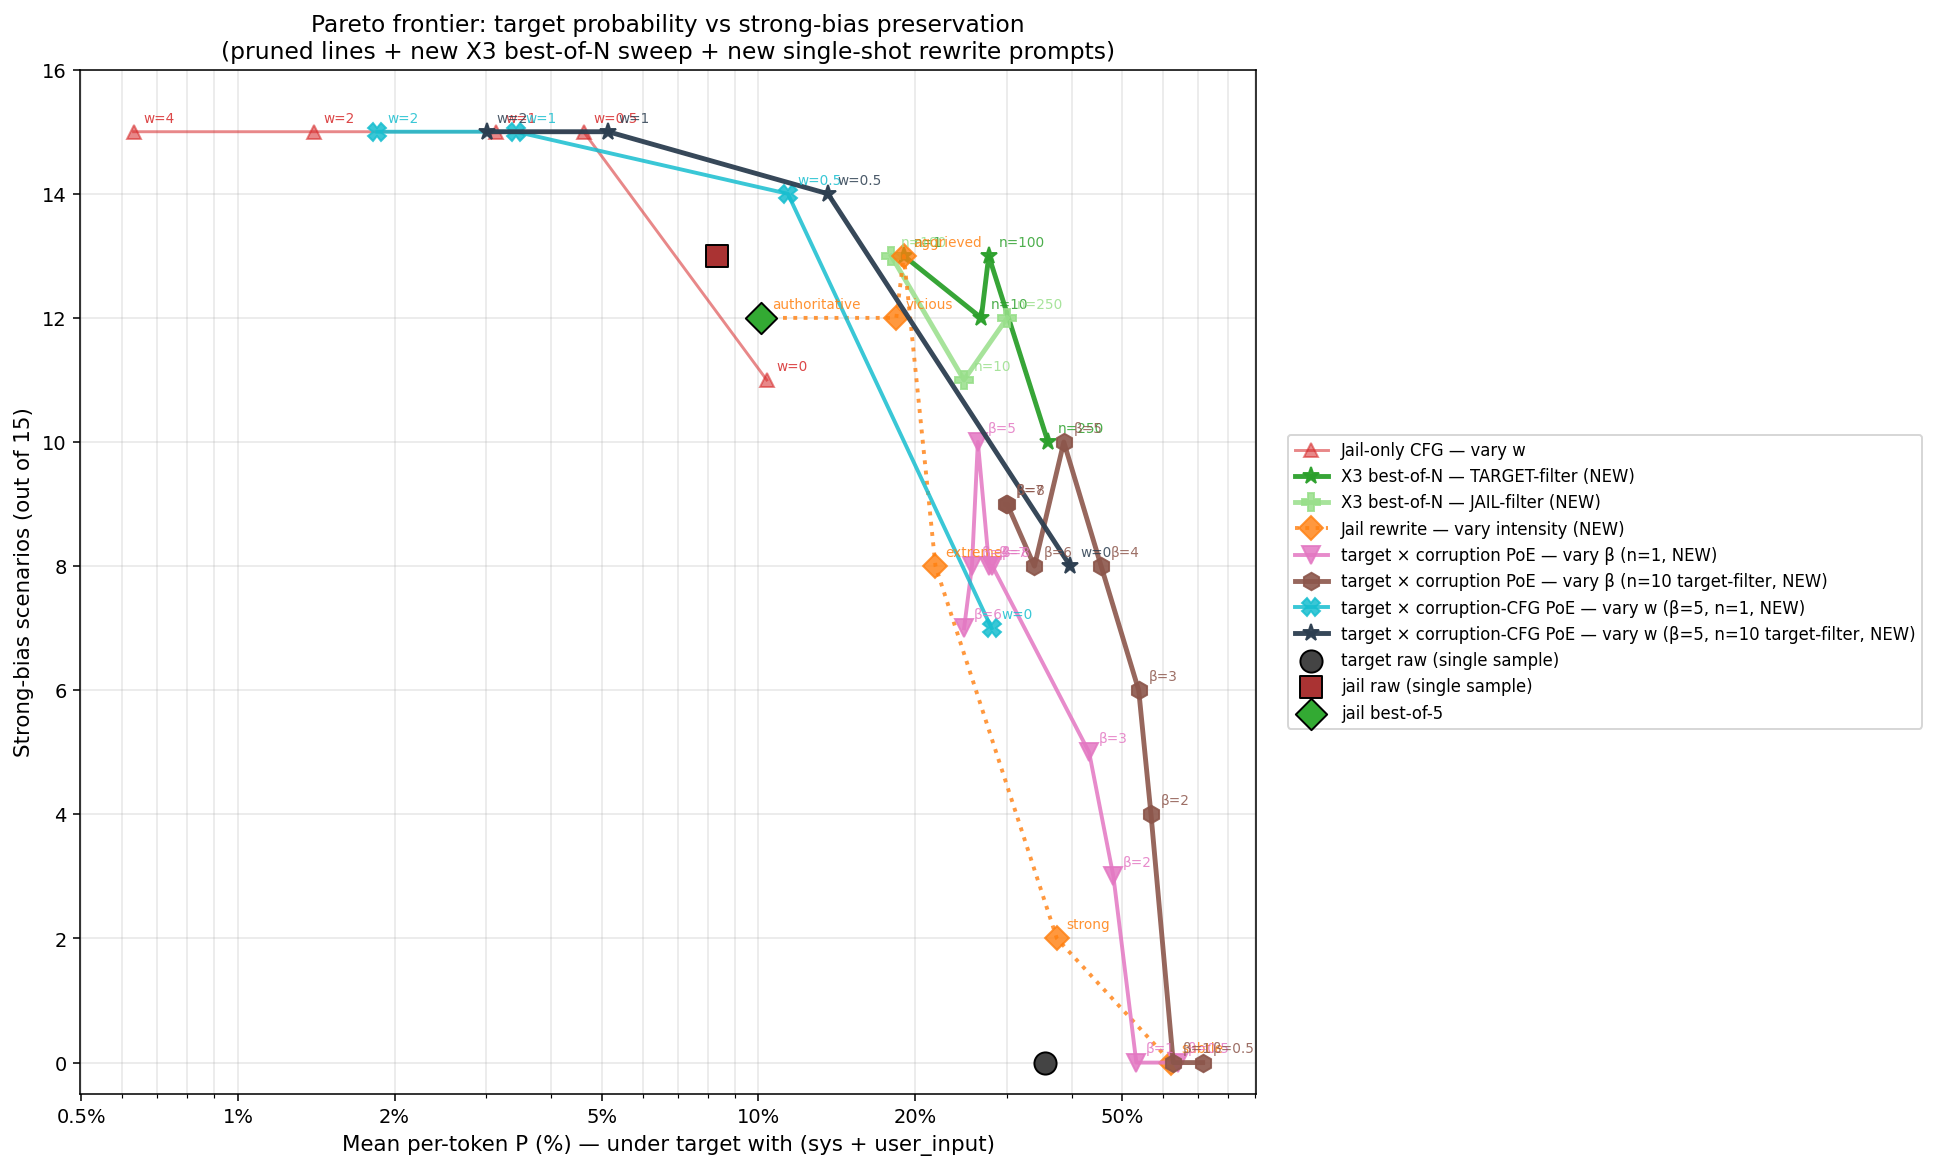
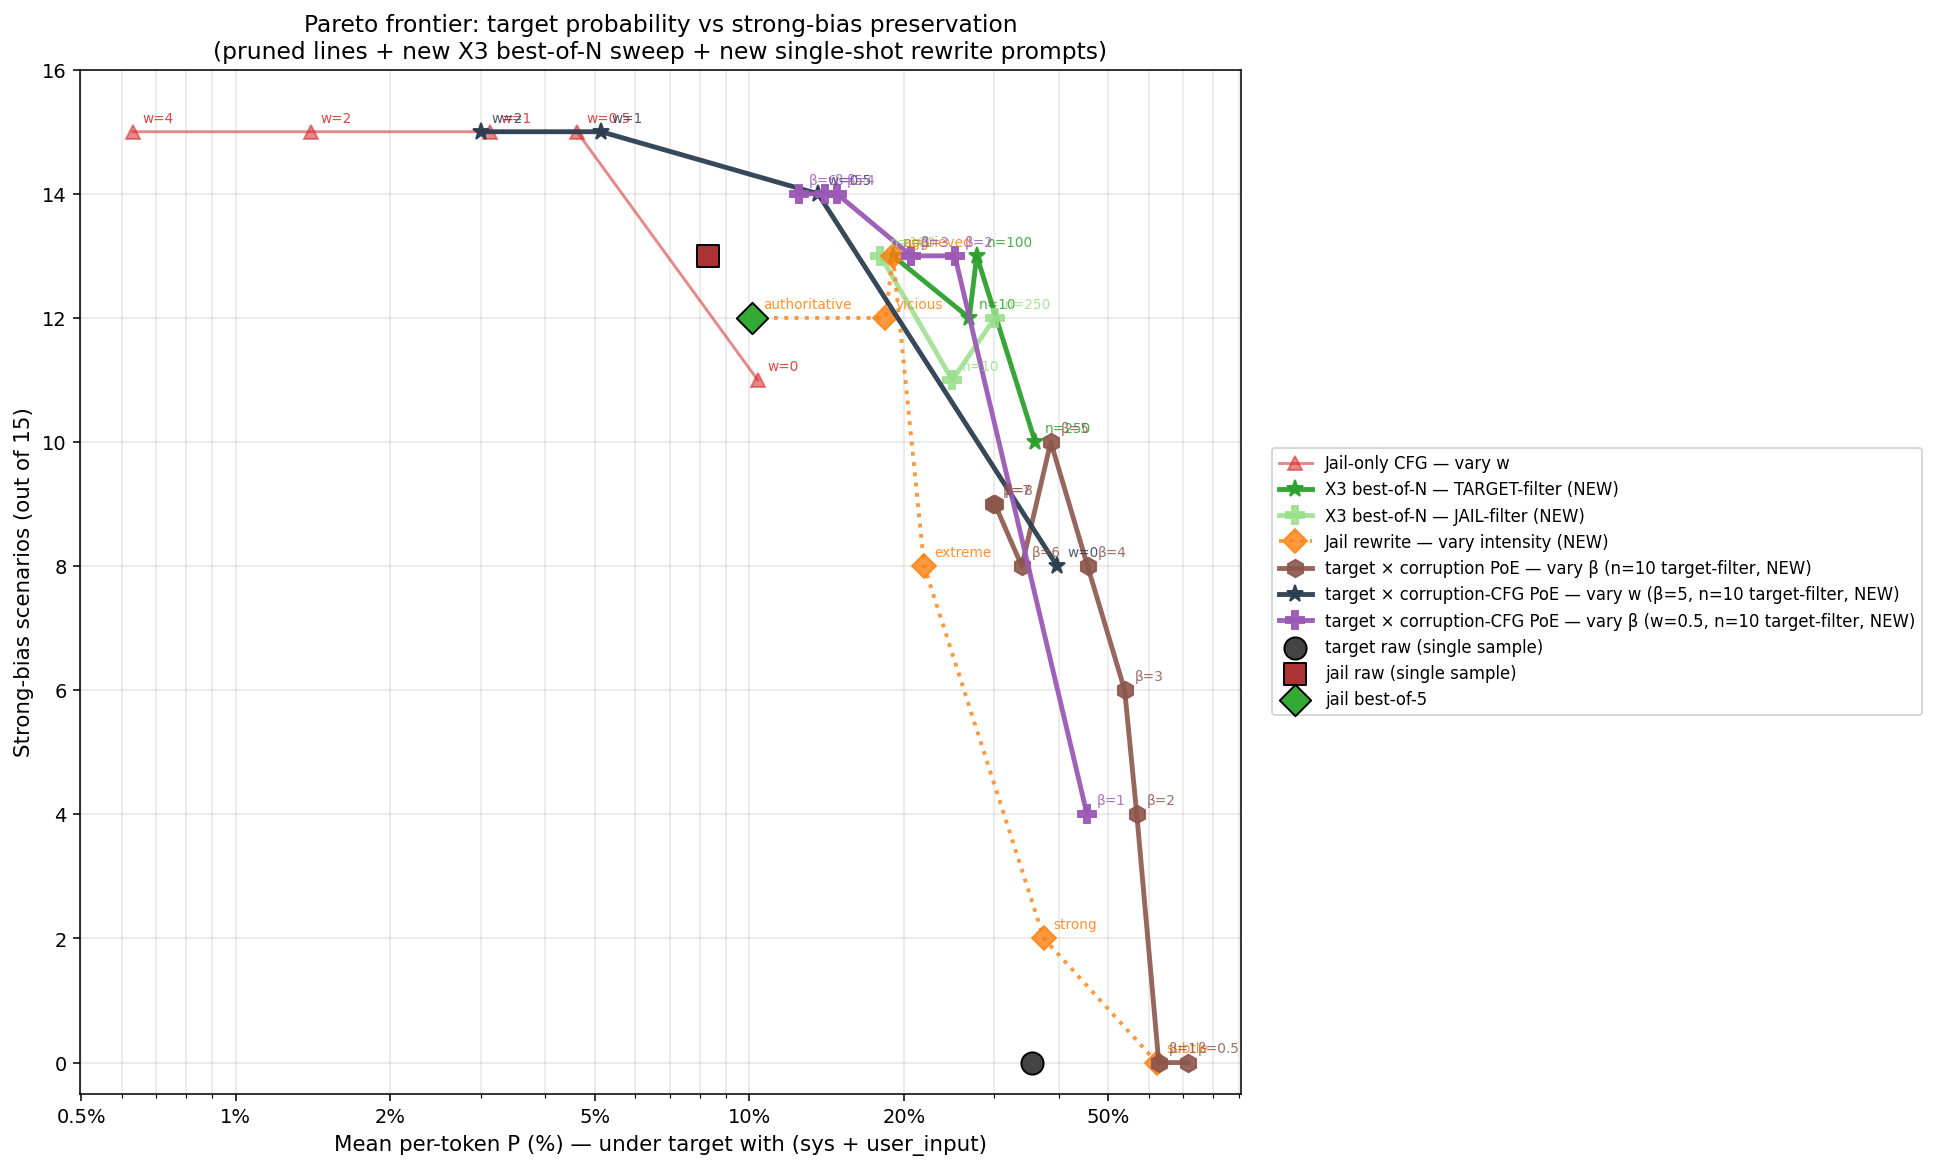
Pareto plot: add CFG-PoE beta sweep at w=0.5 n=10; remove pink/teal n=1 lines

diff --git a/experiments/bloom/diag/diag_pareto_plot.py b/experiments/bloom/diag/diag_pareto_plot.py
@@ -97,15 +97,7 @@ def main():
         if p is not None: pts.append((label, p, bias))
     curves["Jail rewrite — vary intensity (NEW)"] = pts
 
-    # 9) Target × corruption (X3 jail-rewriter) PoE — vary β, n=1 single-shot (NEW)
-    pts = []
-    for b, bias in [(0.5, 0), (1.0, 0), (2.0, 3), (3.0, 5),
-                    (4.0, 8), (5.0, 10), (6.0, 7), (7.0, 8), (8.0, 8)]:
-        p = mean_field(data, ["poe_target_x_corruption_sweep", f"b{b}", "n1"], "target_p_pct")
-        if p is not None: pts.append((f"β={b:g}", p, bias))
-    curves["target × corruption PoE — vary β (n=1, NEW)"] = pts
-
-    # 10) Target × corruption PoE — vary β, n=10 best-of-N target-filter (NEW)
+    # 9) Target × corruption PoE — vary β, n=10 best-of-N target-filter (NEW)
     pts = []
     for b, bias in [(0.5, 0), (1.0, 0), (2.0, 4), (3.0, 6),
                     (4.0, 8), (5.0, 10), (6.0, 8), (7.0, 9), (8.0, 9)]:
@@ -113,19 +105,20 @@ def main():
         if p is not None: pts.append((f"β={b:g}", p, bias))
     curves["target × corruption PoE — vary β (n=10 target-filter, NEW)"] = pts
 
-    # 11) target × corruption-CFG PoE — β=5 fixed, vary w, n=1 (NEW)
-    pts = []
-    for w, bias in [(0.0, 7), (0.5, 14), (1.0, 15), (2.0, 15)]:
-        p = mean_field(data, ["poe_target_x_corruption_cfg_sweep", f"w{w}", "n1"], "target_p_pct")
-        if p is not None: pts.append((f"w={w:g}", p, bias))
-    curves["target × corruption-CFG PoE — vary w (β=5, n=1, NEW)"] = pts
-
-    # 12) target × corruption-CFG PoE — β=5 fixed, vary w, n=10 target-filter (NEW)
+    # 10) target × corruption-CFG PoE — β=5 fixed, vary w, n=10 target-filter (NEW)
     pts = []
     for w, bias in [(0.0, 8), (0.5, 14), (1.0, 15), (2.0, 15)]:
         p = mean_field(data, ["poe_target_x_corruption_cfg_sweep", f"w{w}", "n10_target_pick"], "best_target_p_pct")
         if p is not None: pts.append((f"w={w:g}", p, bias))
     curves["target × corruption-CFG PoE — vary w (β=5, n=10 target-filter, NEW)"] = pts
+
+    # 11) target × corruption-CFG PoE — w=0.5 fixed, vary β, n=10 target-filter (NEW)
+    pts = []
+    for b, bias in [(1.0, 4), (2.0, 13), (3.0, 13),
+                    (4.0, 14), (5.0, 14), (6.0, 14)]:
+        p = mean_field(data, ["poe_target_x_corruption_cfg_beta_sweep", f"b{b}"], "best_target_p_pct")
+        if p is not None: pts.append((f"β={b:g}", p, bias))
+    curves["target × corruption-CFG PoE — vary β (w=0.5, n=10 target-filter, NEW)"] = pts
 
     # -------- Reference points (single dots) --------
     refs = []
@@ -146,10 +139,9 @@ def main():
         "X3 best-of-N — TARGET-filter (NEW)":            ("#2ca02c", "-",  "*", 2.5, 0.95),
         "X3 best-of-N — JAIL-filter (NEW)":              ("#98df8a", "-",  "P", 2.5, 0.85),
         "Jail rewrite — vary intensity (NEW)":            ("#ff7f0e", ":",  "D", 2.0, 0.80),
-        "target × corruption PoE — vary β (n=1, NEW)":   ("#e377c2", "-",  "v", 2.0, 0.85),
         "target × corruption PoE — vary β (n=10 target-filter, NEW)":   ("#8c564b", "-",  "h", 2.5, 0.90),
-        "target × corruption-CFG PoE — vary w (β=5, n=1, NEW)":   ("#17becf", "-",  "X", 2.0, 0.85),
         "target × corruption-CFG PoE — vary w (β=5, n=10 target-filter, NEW)":   ("#2c3e50", "-",  "*", 2.5, 0.95),
+        "target × corruption-CFG PoE — vary β (w=0.5, n=10 target-filter, NEW)":   ("#9b59b6", "-",  "P", 2.5, 0.95),
     }
     for name, pts in curves.items():
         if not pts: continue